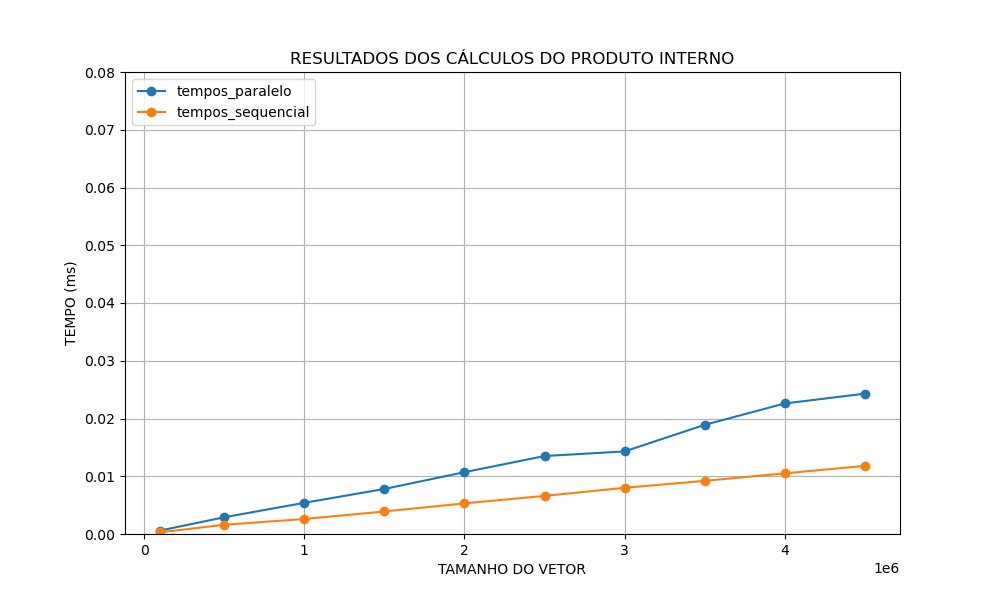
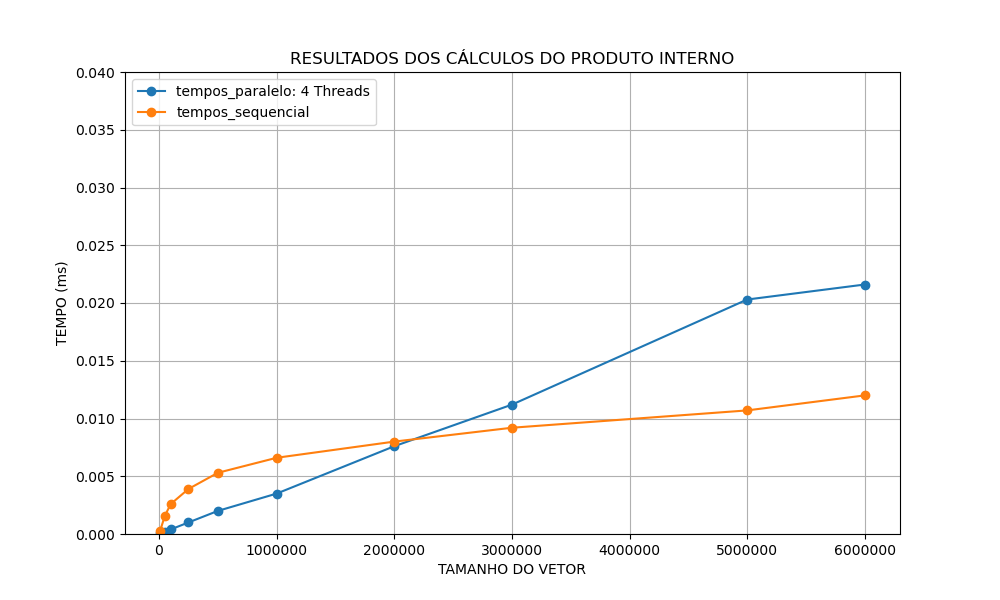
Adicionando versao final

diff --git a/tp2/produto_escalar/graficos.py b/tp2/produto_escalar/graficos.py
@@ -20,16 +20,22 @@ for qtd_thread in qtd_threads.unique():
 
     #separar dados
     df_thread = df_paralelo[df_paralelo["qtd_threads"] == qtd_thread]
+
     tempos_paralelo  = pd.to_numeric(df_thread["tempo(ms)"])
     tamanho_vet = pd.to_numeric(df_thread["tamanho_vet"])
+    tamanho_vet = tamanho_vet.astype(int)
+    print(tamanho_vet)
+
     
     plt.figure(figsize=(10, 6))  
-    plt.plot(tamanho_vet, tempos_paralelo, label='tempos_paralelo', marker='o')
+    plt.plot(tamanho_vet, tempos_paralelo, label=f'tempos_paralelo: {qtd_thread} Threads', marker='o')
     plt.plot(tamanho_vet, tempos_sequencial, label='tempos_sequencial', marker='o')
+    plt.ticklabel_format(style='plain', axis='x')
+
     plt.legend(loc='upper left') # Adicione esta linha! loc='upper left' é um bom lugar.
     plt.xlabel("TAMANHO DO VETOR")
     plt.ylabel("TEMPO (ms)")
-    plt.ylim(0, 0.08)
+    plt.ylim(0, 0.04)
     plt.title("RESULTADOS DOS CÁLCULOS DO PRODUTO INTERNO")
     plt.grid(True)
 

diff --git a/tp2/produto_escalar/produto_escalar_paralelo.c b/tp2/produto_escalar/produto_escalar_paralelo.c
@@ -17,7 +17,7 @@ typedef struct {
 // ----- VARIAVEIS GLOBAIS -------
 double* vetorA;
 double* vetorB;
-int tamanhos_vet[10] = {100000, 500000, 1000000, 1500000, 2000000, 2500000, 3000000, 3500000, 4000000, 4500000};
+int tamanhos_vet[10] = {10000, 50000, 100000, 250000, 500000, 1000000, 2000000, 3000000, 5000000, 6000000};
 int qtd_threads[10] = {2, 3, 4, 5, 6, 7, 8, 9, 10};
 
 int TAMANHO_VETOR;
@@ -142,6 +142,8 @@ int main() {
             printf("============================ LOG DAS THREADS ============================\n");
             clock_gettime(CLOCK_MONOTONIC, &start);
             srand(time(NULL));
+
+
             double resPar = produtoEscalarParalelo(TAMANHO_VETOR, QTD_THREADS);
             clock_gettime(CLOCK_MONOTONIC, &end);
             printf("============================ FIM DAS THREADS ============================\n");
